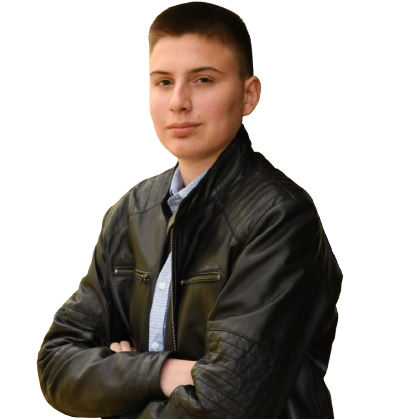
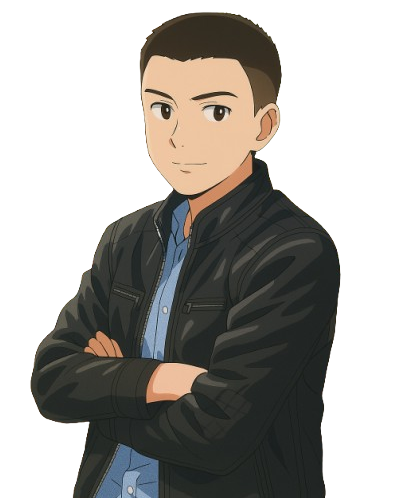
projects page work started

diff --git a/projects.html b/projects.html
@@ -1,0 +1,228 @@
+<!DOCTYPE html>
+<html lang="en">
+<head>
+    <meta charset="UTF-8">
+    <meta name="viewport" content="width=device-width, initial-scale=1.0">
+    <link rel="stylesheet" type="text/css" media="screen" href="./CSS/main.css">
+    <link rel="stylesheet" type="text/css" media="screen" href="./CSS/index.css">
+    <link rel="stylesheet" type="text/css" media="screen" href="./CSS/projects.css">
+</head>
+<body>
+    <header class="navbar">
+        <div class="row" id="navbar-row">
+            <div class="line-and-links">
+                <div class="line"></div>
+                <div class="links">
+                    <a href="https://github.com/djukic03" target="_blank"><img src="./assets/icons/Github.svg"/></a>
+                    <a href="https://www.linkedin.com/in/nemanja-đukić" target="_blank"><img src="./assets/icons/Linkedin.svg"/></a>
+                    <a href="mailto:djukic.nemanja003@gmail.com" target="_blank"><img src="./assets/icons/Email.svg"/></a>
+                </div>
+            </div>
+            <a href="./index.html" id="profile">Nemanja Đukić</a>
+            <ul class="desktop-nav">
+                <li class="nav-li">
+                    <p class="hash">#</p><a href="./index.html" class="home">home</a>
+                </li>
+                <li class="nav-li">
+                    <p class="hash">#</p><a href="./about.html" class="about">about_me</a>
+                </li>
+                <li class="nav-li">
+                    <p class="hash">#</p><a href="./projects.html" class="my-projects">my_projects</a>
+                </li>
+                <li class="nav-li">
+                    <p class="hash">#</p><a href="./contact.html" class="contact">contact_me</a>
+                </li>
+                <li class="nav-li">
+                    <select name="language" class="language">
+                        <option value="en" selected style="color: white; background-color: #282C33;">ENG</option>
+                        <option value="sr" style="color: white; background-color: #282C33;">СРБ</option>
+                    </select>
+                </li>
+            </ul>
+            <div class="mobile-nav">
+                <div class="line-one"></div>
+                <div class="line-two"></div>
+            </div>
+        </div>
+        <div class="mobile-nav-container">
+            <ul class="mobile-nav-ul">
+                <li class="nav-li">
+                    <p class="hash">#</p><a href="./index.html" class="home">home</a>
+                </li>
+                <li class="nav-li">
+                    <p class="hash">#</p><a href="./about.html" class="about">about_me</a>
+                </li>
+                <li class="nav-li">
+                    <p class="hash">#</p><a href="./projects.html" class="my-projects">my_projects</a>
+                </li>
+                <li class="nav-li">
+                    <p class="hash">#</p><a href="./contact.html" class="contact">contact_me</a>
+                </li>
+                <li class="nav-li">
+                    <select name="language" class="language">
+                        <option value="en" selected style="color: white; background-color: #282C33;">ENG</option>
+                        <option value="sr" style="color: white; background-color: #282C33;">СРБ</option>
+                    </select>
+                </li>
+            </ul>
+            <div class="mobile-links">
+                <a href="https://github.com/djukic03" target="_blank"><img src="./assets/icons/Github.svg"/></a>
+                <a href="https://www.linkedin.com/in/nemanja-đukić" target="_blank"><img src="./assets/icons/Linkedin.svg"/></a>
+                <a href="mailto:djukic.nemanja003@gmail.com" target="_blank"><img src="./assets/icons/Email.svg"/></a>
+            </div>
+        </div>
+    </header>
+
+
+    <main class="content">
+        <div class="page-title">
+            <p class="hash">/</p><h1 class="my-projects" id="my-projects">my_projects</h1>
+        </div>
+        <div class="projects">
+            <div class="row">
+                <p class="hash">#</p><a class="academic-projects">academic_projects</a>
+                <div class="pink-line"></div>
+            </div>
+            <div class="row" id="all-projects">
+                <div class="one-project">
+                    <div class="img">
+                        <img src="./assets/img/athlete-x.png" alt="Athlete X"/>
+                    </div>
+                    <div class="skills">
+                        <div class="row">
+                            <p>HTML</p>
+                            <p>CSS</p>
+                            <p>TypeScript</p>
+                            <p>React</p>
+                            <p>Node</p>
+                        </div>
+                    </div>
+                    <div class="desc">
+                        <p class="title">Athlete X</p>
+                        <p class="desc-text" id="ath-x-desc">Fitness tracking web application.</p>
+                        <a href="./projects.html"><button class="btn view-more">View More -></button></a>
+                    </div>
+                </div>
+                <div class="one-project">
+                    <div class="img">
+                        <img src="./assets/img/DjukaMusicAssistant.png" alt="Athlete X" style="border-bottom: 1px solid white;"/>
+                    </div>
+                    <div class="skills">
+                        <div class="row">
+                            <p>Python</p>
+                            <p>Google Speech API</p>
+                            <p>Threading</p>
+                        </div>
+                    </div>
+                    <div class="desc">
+                        <p class="title" id="djuka-title">Đuka Music Assistant</p>
+                        <p class="desc-text" id="djuka-desc">Voice-controled music assistant.</p>
+                        <a href="./projects.html"><button class="btn view-more">View More -></button></a>
+                    </div>
+                </div>
+                <div class="one-project">
+                    <div class="img">
+                        <img src="./assets/img/Screenshot_10-9-2024_165324_127.0.0.1.jpeg" alt="Athlete X" style="border-bottom: 1px solid white;"/>
+                    </div>
+                    <div class="skills">
+                        <div class="row">
+                            <p>HTML</p>
+                            <p>CSS</p>
+                            <p>JavaScript</p>
+                        </div>
+                    </div>
+                    <div class="desc">
+                        <p class="title" id="portfolio-title">My Portfolio Website</p>
+                        <p class="desc-text" id="portfolio-desc">A custom-made website built from scratch.</p>
+                        <a href="./projects.html"><button class="btn view-more">View More -></button></a>
+                    </div>
+                </div>
+            </div>
+        </div>
+        <div class="projects">
+            <div class="row">
+                <p class="hash">#</p><a class="academic-projects">personal_projects</a>
+                <div class="pink-line"></div>
+            </div>
+            <div class="row" id="all-projects">
+                <div class="one-project">
+                    <div class="img">
+                        <img src="./assets/img/athlete-x.png" alt="Athlete X"/>
+                    </div>
+                    <div class="skills">
+                        <div class="row">
+                            <p>HTML</p>
+                            <p>CSS</p>
+                            <p>TypeScript</p>
+                            <p>React</p>
+                            <p>Node</p>
+                        </div>
+                    </div>
+                    <div class="desc">
+                        <p class="title">Athlete X</p>
+                        <p class="desc-text" id="ath-x-desc">Fitness tracking web application.</p>
+                        <a href="./projects.html"><button class="btn view-more">View More -></button></a>
+                    </div>
+                </div>
+                <div class="one-project">
+                    <div class="img">
+                        <img src="./assets/img/DjukaMusicAssistant.png" alt="Athlete X" style="border-bottom: 1px solid white;"/>
+                    </div>
+                    <div class="skills">
+                        <div class="row">
+                            <p>Python</p>
+                            <p>Google Speech API</p>
+                            <p>Threading</p>
+                        </div>
+                    </div>
+                    <div class="desc">
+                        <p class="title" id="djuka-title">Đuka Music Assistant</p>
+                        <p class="desc-text" id="djuka-desc">Voice-controled music assistant.</p>
+                        <a href="./projects.html"><button class="btn view-more">View More -></button></a>
+                    </div>
+                </div>
+                <div class="one-project">
+                    <div class="img">
+                        <img src="./assets/img/Screenshot_10-9-2024_165324_127.0.0.1.jpeg" alt="Athlete X" style="border-bottom: 1px solid white;"/>
+                    </div>
+                    <div class="skills">
+                        <div class="row">
+                            <p>HTML</p>
+                            <p>CSS</p>
+                            <p>JavaScript</p>
+                        </div>
+                    </div>
+                    <div class="desc">
+                        <p class="title" id="portfolio-title">My Portfolio Website</p>
+                        <p class="desc-text" id="portfolio-desc">A custom-made website built from scratch.</p>
+                        <a href="./projects.html"><button class="btn view-more">View More -></button></a>
+                    </div>
+                </div>
+            </div>
+        </div>
+    </main>
+
+
+    <footer>
+        <div class="row" style="align-items: flex-start;">
+            <div class="name">
+                <div class="row" style="justify-content: flex-start;">
+                    <p>Nemanja</p>
+                    <a href="mailto:djukic.nemanja003@gmail.com" target="_blank">djukic.nemanja003@gmail.com</a>
+                </div>
+                <p id="footer-text" style="margin-top: 10px;">IT student and a full-stack developer</p>
+            </div>
+            <div class="media">
+                <p>Media</p>
+                <div class="row">
+                    <a href="https://github.com/djukic03" target="_blank"><img src="./assets/icons/Github.svg"/></a>
+                    <a href="https://www.linkedin.com/in/nemanja-đukić" target="_blank"><img src="./assets/icons/Linkedin.svg"/></a>
+                    <a href="mailto:djukic.nemanja003@gmail.com" target="_blank"><img src="./assets/icons/Email.svg"/></a>
+                </div>
+            </div>
+        </div>
+        <p style="margin-top: 50px; color: #ABB2BF;">Copyright © 2024 Nemanja Đukić</p>
+    </footer>
+    <script type="module" src="./JS/main.js"></script>
+</body>
+</html>

diff --git a/JS/translation.js b/JS/translation.js
@@ -10,7 +10,7 @@ export const translations = {
       "If you are looking for a motivated and dedicated employee who is eager to learn and grow professionally, please feel free to contact me.",
     btn_contact: "Contact Me ->",
     currently_working:
-      "Currently working on my <strong>Bachelor's degree</strong>",
+      "Currently pursuing my <strong>Bachelor's degree</strong>",
     about_me_p1: `I am a motivated and dedicated student at the <strong style="color: #C778DD;">Faculty of Organizational Sciences, University of Belgrade</strong>, pursuing a degree in <strong style="color: #C778DD;">Information Systems and Technologies</strong>.`,
     about_me_p2: `For <strong style="color: #C778DD;">nearly a decade</strong>, I have been continuously learning and developing my coding skills, which has provided me with a solid foundation in programming and a deep understanding of technology. My academic background also includes knowledge in management, economics, finance, project and product management, etc.`,
     about_me_p3: `I am actively seeking an <strong style="color: #C778DD;">internship</strong> or an <strong style="color: #C778DD;"> entry-level position in IT</strong>, where I can gain more <strong style="color: #C778DD;">practical experience </strong>and grow professionally in a collaborative and supportive environment. I am eager to contribute and learn from experienced mentors and colleagues.`,

diff --git a/JS/index.js b/JS/index.js
@@ -1,4 +1,5 @@
 import { translations } from "./translation.js";
+import { config } from "./config.js";
 document.querySelectorAll(".language").forEach((element) => {
   element.addEventListener("change", function () {
     const selectedLang = this.value;
@@ -49,7 +50,7 @@ document.querySelectorAll(".language").forEach((element) => {
 
 (function () {
   emailjs.init({
-    publicKey: "e3-_HYVJTgu2CHAjU",
+    publicKey: config.EMAILJS_API_KEY,
   });
 })();
 
@@ -60,7 +61,10 @@ document
     emailjs.sendForm("contact_service", "contact_form", this).then(
       () => {
         alert("Email sent successfully");
-        document.getElementById("contactForm").reset();
+        document.getElementById("name").value = "";
+        document.getElementById("email").value = "";
+        document.getElementById("subject").value = "";
+        document.getElementById("message").value = "";
       },
       (error) => {
         alert("Error sending email. Please try again later. \n", error);

diff --git a/about.html b/about.html
@@ -74,7 +74,7 @@
     </header>
     <main class="content">
         <div class="page-title">
-            <p class="hash">#</p><h1 class="about" id="about-me">about_me</h1>
+            <p class="hash">/</p><h1 class="about" id="about-me">about_me</h1>
         </div>
         <div class="cv">
             <div class="cv-line-1"></div>

diff --git a/CSS/main.css b/CSS/main.css
@@ -449,6 +449,6 @@ footer {
     display: flex;
     flex-direction: row;
     flex-wrap: nowrap;
-    justify-content: center;
+    justify-content: flex-start;
     align-items: center;
 }

diff --git a/CSS/projects.css b/CSS/projects.css
@@ -1,0 +1,7 @@
+.content .row {
+    justify-content: flex-start;
+}
+
+.projects {
+    margin-bottom: 5%;
+}
